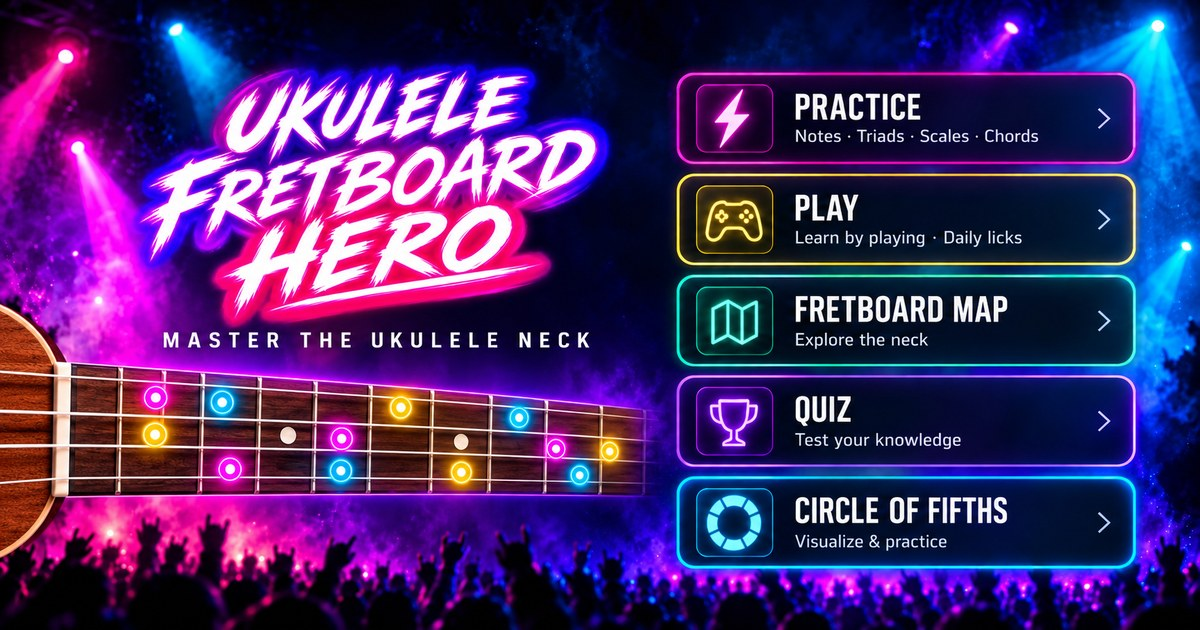
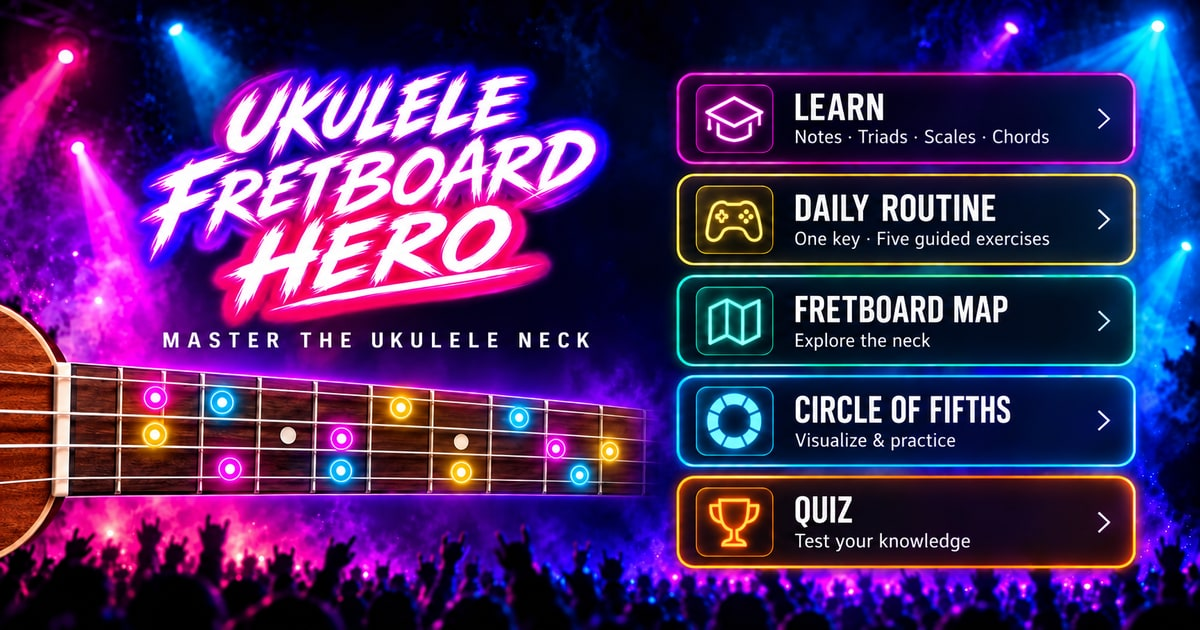
feat: refresh instrument OG artwork with current home menus

diff --git a/web/index.html b/web/index.html
@@ -22,15 +22,15 @@
   <meta property="og:site_name" content="Fretboard Hero">
   <meta property="og:locale" content="en_US">
   <meta property="og:url" content="https://fretboard-hero.com/">
-  <meta property="og:image" content="https://fretboard-hero.com/assets/instruments/guitar/og.jpg">
+  <meta property="og:image" content="https://fretboard-hero.com/assets/instruments/guitar/og.jpg?v=10.24.2">
   <meta property="og:image:type" content="image/jpeg">
   <meta property="og:image:width" content="1200">
   <meta property="og:image:height" content="630">
-  <meta property="og:image:alt" content="Fretboard Hero — neon fretboard trainer with Learn, Play, Fretboard Map, Quiz and Circle of Fifths">
+  <meta property="og:image:alt" content="Fretboard Hero — neon fretboard trainer with Learn, Daily Routine, Fretboard Map, Circle of Fifths and Quiz">
   <meta name="twitter:card" content="summary_large_image">
   <meta name="twitter:title" content="Fretboard Hero — Master the Neck">
   <meta name="twitter:description" content="Interactive fretboard training, note map and quiz. Free. No account. Just play.">
-  <meta name="twitter:image" content="https://fretboard-hero.com/assets/instruments/guitar/og.jpg">
+  <meta name="twitter:image" content="https://fretboard-hero.com/assets/instruments/guitar/og.jpg?v=10.24.2">
   <link rel="icon" sizes="16x16 32x32 48x48" href="./assets/instruments/guitar/favicon.ico">
   <link rel="shortcut icon" href="./assets/instruments/guitar/favicon.ico">
   <link rel="icon" type="image/png" sizes="16x16" href="./assets/instruments/guitar/favicon-16.png">
@@ -42,10 +42,10 @@
   <link rel="apple-touch-icon" sizes="152x152" href="./assets/instruments/guitar/apple-touch-icon-152.png">
   <link rel="apple-touch-icon" sizes="167x167" href="./assets/instruments/guitar/apple-touch-icon-167.png">
   <link rel="apple-touch-icon" sizes="180x180" href="./assets/instruments/guitar/apple-touch-icon-180.png">
-  <link rel="stylesheet" href="./styles.css?v=10.24.1">
+  <link rel="stylesheet" href="./styles.css?v=10.24.2">
   <link rel="stylesheet" href="./home.css?v=10.21.1">
-  <link rel="stylesheet" href="./theme.css?v=10.24.1">
-  <link rel="stylesheet" href="./routine.css?v=10.24.1">
+  <link rel="stylesheet" href="./theme.css?v=10.24.2">
+  <link rel="stylesheet" href="./routine.css?v=10.24.2">
   <link rel="stylesheet" href="./premium.css?v=10.21.1">
   <script id="productStructuredData" type="application/ld+json">{"@context":"https://schema.org","@type":["VideoGame","WebApplication"],"name":"Fretboard Hero","description":"Interactive fretboard trainer."}</script>
 </head>
@@ -71,7 +71,7 @@
             <button class="hero-btn routine-card" data-go="routine"><span class="hero-icon"><img src="./assets/home/play.svg" alt="" width="64" height="64"></span><span class="home-card-copy"><strong>DAILY ROUTINE</strong><small>One key · Five guided exercises</small></span><span class="home-chevron" aria-hidden="true">›</span></button>
             <button class="hero-btn map-card" data-go="fretmap"><span class="hero-icon"><img src="./assets/home/map.svg" alt="" width="64" height="64"></span><span class="home-card-copy"><strong>FRETBOARD MAP</strong><small>Explore the neck</small></span><span class="home-chevron" aria-hidden="true">›</span></button>
             <button class="hero-btn circle-card" data-go="circle"><span class="hero-icon"><img src="./assets/home/circle.svg" alt="" width="64" height="64"></span><span class="home-card-copy"><strong>CIRCLE OF FIFTHS</strong><small>Visualize & practice</small></span><span class="home-chevron" aria-hidden="true">›</span></button>
-            <button class="hero-btn quiz-card" data-go="quiz"><span class="hero-icon"><img src="./assets/home/quiz.svg?v=10.24.1" alt="" width="64" height="64"></span><span class="home-card-copy"><strong>QUIZ</strong><small>Test your knowledge</small></span><span class="home-chevron" aria-hidden="true">›</span></button>
+            <button class="hero-btn quiz-card" data-go="quiz"><span class="hero-icon"><img src="./assets/home/quiz.svg?v=10.24.2" alt="" width="64" height="64"></span><span class="home-card-copy"><strong>QUIZ</strong><small>Test your knowledge</small></span><span class="home-chevron" aria-hidden="true">›</span></button>
           </nav>
           <nav class="home-instruments" aria-label="Choose instrument">
             <button type="button" data-home-instrument="guitar" aria-pressed="false"><svg class="instrument-art" viewBox="71.5 11.3333 190 253.3333" aria-hidden="true" preserveAspectRatio="xMidYMid meet"><image href="./assets/home/instruments.webp?v=10.14.0" width="768" height="256"/></svg><span>Guitar</span></button>
@@ -110,7 +110,7 @@
           <div id="routineTabScroll" class="routine-tab-scroll"><svg id="routineTab" role="img"></svg></div>
           <p id="routineLegend" class="routine-legend">Read left to right · <span>Cyan = root note</span> · Play at your own pace</p>
         </article>
-        <div class="routine-actions"><button id="routineNext" class="ui-primary" type="button">Next →</button><div id="routineFinish" class="routine-finish" hidden><button class="learn-card" type="button" data-go="learn"><img src="./assets/home/learn.svg" alt="" width="28" height="28">Learn</button><button class="quiz-card" type="button" data-go="quiz"><img src="./assets/home/quiz.svg?v=10.24.1" alt="" width="28" height="28">Quiz</button></div></div>
+        <div class="routine-actions"><button id="routineNext" class="ui-primary" type="button">Next →</button><div id="routineFinish" class="routine-finish" hidden><button class="learn-card" type="button" data-go="learn"><img src="./assets/home/learn.svg" alt="" width="28" height="28">Learn</button><button class="quiz-card" type="button" data-go="quiz"><img src="./assets/home/quiz.svg?v=10.24.2" alt="" width="28" height="28">Quiz</button></div></div>
       </div>
     </section>
 
@@ -241,7 +241,7 @@
     </div>
   </div>
 
-  <script src="./bootstrap.js?v=10.24.1" defer></script>
+  <script src="./bootstrap.js?v=10.24.2" defer></script>
   <script>if('serviceWorker' in navigator){window.addEventListener('load',()=>navigator.serviceWorker.register('./sw.js').catch(()=>{}));}</script>
 
 </body>

diff --git a/web/bootstrap.js b/web/bootstrap.js
@@ -8,19 +8,19 @@
     artwork.setAttribute('href','./assets/home/product-wordmarks.webp');
   });
   const CATALOG={
-    'guitar':{instrumentKey:'guitar',instrument:'./instruments/guitar.js?v=10.24.1',productKey:'guitar',product:'./products/guitar-fretboard-hero.js?v=10.24.1'},
-    'bass-4':{instrumentKey:'bass4',instrument:'./instruments/bass-4.js?v=10.24.1',productKey:'bass',product:'./products/bass-fretboard-hero.js?v=10.24.1'},
-    'ukulele':{instrumentKey:'ukulele',instrument:'./instruments/ukulele.js?v=10.24.1',productKey:'ukulele',product:'./products/ukulele-fretboard-hero.js?v=10.24.1'},
+    'guitar':{instrumentKey:'guitar',instrument:'./instruments/guitar.js?v=10.24.2',productKey:'guitar',product:'./products/guitar-fretboard-hero.js?v=10.24.2'},
+    'bass-4':{instrumentKey:'bass4',instrument:'./instruments/bass-4.js?v=10.24.2',productKey:'bass',product:'./products/bass-fretboard-hero.js?v=10.24.2'},
+    'ukulele':{instrumentKey:'ukulele',instrument:'./instruments/ukulele.js?v=10.24.2',productKey:'ukulele',product:'./products/ukulele-fretboard-hero.js?v=10.24.2'},
   };
-  const CORE=['music-theory','circle-of-fifths','circle-renderer','routine-exercises','routine-renderer','routine-session','tuning','fretboard-engine','fretboard-layout','fretboard-appearance','fretboard-map','pentatonic-renderer','triad-engine','arpeggio-engine','chord-engine','quiz-engine','controls','mode-registry','product-shell'].map(n=>`./core/${n}.js?v=10.24.1`);
-  const MODES=['pentatonic','triads','chords','arpeggios'].map(n=>`./modes/${n}.js?v=10.24.1`);
+  const CORE=['music-theory','circle-of-fifths','circle-renderer','routine-exercises','routine-renderer','routine-session','tuning','fretboard-engine','fretboard-layout','fretboard-appearance','fretboard-map','pentatonic-renderer','triad-engine','arpeggio-engine','chord-engine','quiz-engine','controls','mode-registry','product-shell'].map(n=>`./core/${n}.js?v=10.24.2`);
+  const MODES=['pentatonic','triads','chords','arpeggios'].map(n=>`./modes/${n}.js?v=10.24.2`);
   const load=src=>new Promise((resolve,reject)=>{const s=document.createElement('script');s.async=false;s.src=src;s.onload=resolve;s.onerror=()=>reject(new Error(`Unable to load ${src}`));document.head.appendChild(s);});
   const fail=err=>{document.body.setAttribute('aria-busy','false');console.error(err);document.body.innerHTML=`<main style="min-height:100vh;display:grid;place-items:center;background:#05080b;color:#f8fbff;font-family:system-ui;padding:24px"><div><h1 style="color:#ff3ec9">CONFIGURATION ERROR</h1><p>${String(err.message||err)}</p><p>Check <code>site.config.json</code> and README.md.</p></div></main>`;};
   (async()=>{
     try{
       const response=await fetch('./site.config.json',{cache:'no-store'});if(!response.ok)throw new Error(`site.config.json returned HTTP ${response.status}`);
       const config=await response.json();
-      await load('./core/access.js?v=10.24.1');
+      await load('./core/access.js?v=10.24.2');
       window.FRETBOARD_ACCESS=FretboardAccess.create(await FretboardAccess.resolve(config,location.search));
       const defaultInstrument=config.instrument;
       if(!CATALOG[defaultInstrument])throw new Error(`Unknown instrument "${defaultInstrument}". Supported: ${Object.keys(CATALOG).join(', ')}`);
@@ -41,9 +41,9 @@
       window.FRETBOARD_ACTIVE_PRODUCT={...product,instrument:entry.instrumentKey};window.FRETBOARD_ACTIVE_INSTRUMENT=instrument;
       document.documentElement.dataset.instrument=config.instrument;
       window.ProductShell.apply(product,instrument);
-      await load('./home.js?v=10.24.1');
+      await load('./home.js?v=10.24.2');
       await document.fonts.load('800 26px "Hero Condensed"').catch(()=>[]);
-      await load('./app.js?v=10.24.1');
+      await load('./app.js?v=10.24.2');
       if(!await artworkReady){
         logo.setAttribute('hidden','');
         const fallback=document.createElement('span');

diff --git a/web/products/guitar-fretboard-hero.js b/web/products/guitar-fretboard-hero.js
@@ -10,14 +10,14 @@ window.FRETBOARD_PRODUCTS.guitar={
     canonical:'https://fretboard-hero.com/',
     ogTitle:'Guitar Fretboard Hero — Learn the Guitar Fretboard',
     ogDescription:'Learn every note, visualize pentatonic positions, triads and CAGED chords, then test your fretboard knowledge in a 60-second quiz.',
-    ogImageAlt:'Guitar Fretboard Hero interactive guitar fretboard with Learn, Play, Fretboard Map, Quiz and Circle of Fifths',
+    ogImageAlt:'Guitar Fretboard Hero interactive guitar fretboard with Learn, Daily Routine, Fretboard Map, Circle of Fifths and Quiz',
     twitterTitle:'Guitar Fretboard Hero — Learn the Guitar Fretboard',
     twitterDescription:'Interactive guitar fretboard notes, pentatonic positions, triads, CAGED chords and a fast fretboard quiz. Free and no account required.',
     structuredDescription:'Free interactive guitar fretboard learning tool with note mapping, major and minor pentatonic positions, triads, CAGED chord shapes and a timed fretboard quiz.',
     featureList:['Interactive guitar fretboard note map','Major and minor pentatonic positions','Triad visualization','CAGED chord shapes','Circle of Fifths and key harmony','60-second fretboard quiz','Mobile and tablet friendly']
   },
   pwa:{manifest:'manifests/guitar.webmanifest',name:'Guitar Fretboard Hero',shortName:'Fretboard Hero',description:'Free interactive guitar fretboard trainer for pentatonic scales, triads, chords, note mapping and quizzes.'},
-  assets:{heroLogoViewport:'0 0 900 550',ogImage:'assets/instruments/guitar/og.jpg'},
+  assets:{heroLogoViewport:'0 0 900 550',ogImage:'assets/instruments/guitar/og.jpg?v=10.24.2'},
   quiz:{durationMs:60000,basePoints:100,scoreTable:[100,250,500,800,1200],maxMultiplier:5,maxFret:15,targets:['root','third','fifth']},
   ranks:[
     [10000,'🏆','VIRTUOSO','Total fretboard control at speed.'],[9000,'🎸','GUITAR LEGEND','The neck has nowhere left to hide.'],[8000,'🧙','NECK MASTER','Instant command across the fretboard.'],[7000,'✨','FRET WIZARD','Notes appear before you need to search.'],[6000,'👑','GUITAR HERO','Fast, confident fretboard mastery.'],[5300,'⭐','ROCKSTAR','Fast, accurate and stage-ready.'],[4700,'⚡','SHREDDER','The neck is starting to fear you.'],[4200,'🎛','TONE MASTER','Control, speed and musical awareness.'],[3800,'🌀','STRING BENDER','Strong instincts across the strings.'],[3450,'🔥','FRET MASTER','The fretboard map is locking in.'],[3150,'💀','SOLO MASTER','Strong fretboard instincts.'],[2900,'🤘','RIFF LORD','You command the riffs.'],[2650,'🎤','HEADLINER','Ready for the big stage.'],[2450,'🎪','STAGE PLAYER','Comfortable under pressure.'],[2250,'🎵','LEAD GUITARIST','Solid lead-player territory.'],[2000,'🪓','AXE SLINGER','You know how to handle that axe.'],[1800,'🏄','RHYTHM RIDER','The neck is becoming familiar.'],[1600,'🎸','GIG PLAYER','Good enough to survive the set.'],[1400,'🎶','JAMMER','You can find your way through a jam.'],[1200,'🎼','PLAYER','A solid base is taking shape.'],[1000,'🎧','PRACTICER','The repetitions are paying off.'],[850,'🌱','ROOKIE','The journey has officially begun.'],[700,'🎸','BEGINNER','You found the guitar. Now find the notes.'],[550,'🎵','CHORD CHASER','Always one fret behind the chord.'],[400,'🧭','FRET EXPLORER','Boldly exploring unknown frets.'],[300,'🧠','NOTE HUNTER','The notes are hiding. Keep hunting.'],[200,'🗺','NECK TOURIST','Nice neck. First time here?'],[100,'🙈','FRET GUESSER','Confidence: high. Accuracy: adventurous.'],[50,'😬','NEEDS A TUNER','The guitar might be fine. We should still check.'],[0,'💀','AIR GUITARIST','At least air guitar has no wrong frets.']

diff --git a/web/products/ukulele-fretboard-hero.js b/web/products/ukulele-fretboard-hero.js
@@ -10,13 +10,13 @@ window.FRETBOARD_PRODUCTS.ukulele={
     canonical:'https://fretboard-hero.com/?instrument=ukulele',
     ogTitle:'Ukulele Fretboard Hero — Learn the Ukulele Fretboard',
     ogDescription:'Learn every ukulele note, explore pentatonic positions, triads, chords and arpeggios in G–C–E–A tuning, then test yourself in the quiz.',
-    ogImageAlt:'Ukulele Fretboard Hero interactive G C E A ukulele fretboard with Learn, Play, Fretboard Map, Quiz and Circle of Fifths',
+    ogImageAlt:'Ukulele Fretboard Hero interactive G C E A ukulele fretboard with Learn, Daily Routine, Fretboard Map, Circle of Fifths and Quiz',
     twitterTitle:'Ukulele Fretboard Hero — Learn the Ukulele Fretboard',
     twitterDescription:'Interactive G–C–E–A ukulele fretboard notes, scales, triads, chords, arpeggios and a fast quiz.',
     structuredDescription:'Free interactive ukulele fretboard learning tool for standard reentrant high-G G–C–E–A tuning with note mapping, pentatonic positions, triads, chords, arpeggios and quizzes.',
     featureList:['G–C–E–A ukulele fretboard note map','Reentrant high-G tuning','Pentatonic positions','Ukulele triads and chords','Ukulele arpeggios','Circle of Fifths and key harmony','60-second fretboard quiz']
   },
   pwa:{manifest:'manifests/ukulele.webmanifest',name:'Ukulele Fretboard Hero',shortName:'Ukulele Hero',description:'Interactive ukulele fretboard trainer for scales, triads, chords, arpeggios, note mapping and quizzes.'},
-  assets:{heroLogoViewport:'1800 0 900 550',ogImage:'assets/instruments/ukulele/og.jpg'},
+  assets:{heroLogoViewport:'1800 0 900 550',ogImage:'assets/instruments/ukulele/og.jpg?v=10.24.2'},
   quiz:{durationMs:60000,basePoints:100,scoreTable:[100,250,500,800,1200],maxMultiplier:5,maxFret:15,targets:['root','third','fifth']},ranks:[[10000,'🏆','UKULELE VIRTUOSO',''],[9000,'🎸','UKULELE LEGEND',''],[8000,'🧙','NECK MASTER',''],[7000,'✨','FRET WIZARD',''],[6000,'👑','UKULELE HERO',''],[5300,'⭐','ISLAND ROCKSTAR',''],[4700,'⚡','FAST STRUMMER',''],[4200,'🎛','TONE MASTER',''],[3800,'🌀','STRING BENDER',''],[3450,'🔥','FRET MASTER',''],[3150,'💀','SOLO MASTER',''],[2900,'🤘','RIFF LORD',''],[2650,'🎤','HEADLINER',''],[2450,'🎪','STAGE PLAYER',''],[2250,'🎵','LEAD PLAYER',''],[2000,'🪓','UKE SLINGER',''],[1800,'🏄','RHYTHM RIDER',''],[1600,'🎸','GIG PLAYER',''],[1400,'🎶','JAMMER',''],[1200,'🎼','UKULELE PLAYER',''],[1000,'🎧','PRACTICER',''],[850,'🌱','ROOKIE',''],[700,'🎸','BEGINNER',''],[550,'🎵','CHORD CHASER',''],[400,'🧭','FRET EXPLORER',''],[300,'🧠','NOTE HUNTER',''],[200,'🗺','NECK TOURIST',''],[100,'🙈','FRET GUESSER',''],[50,'😬','NEEDS A TUNER',''],[0,'💀','AIR UKULELE','']]
 };

diff --git a/web/products/bass-fretboard-hero.js b/web/products/bass-fretboard-hero.js
@@ -10,13 +10,13 @@ window.FRETBOARD_PRODUCTS.bass={
     canonical:'https://fretboard-hero.com/?instrument=bass-4',
     ogTitle:'Bass Fretboard Hero — Learn the Bass Fretboard',
     ogDescription:'Learn every bass note, visualize pentatonic positions, triads and arpeggios, then test your fretboard knowledge in a 60-second quiz.',
-    ogImageAlt:'Bass Fretboard Hero interactive 4-string bass fretboard with Learn, Play, Fretboard Map, Quiz and Circle of Fifths',
+    ogImageAlt:'Bass Fretboard Hero interactive 4-string bass fretboard with Learn, Daily Routine, Fretboard Map, Circle of Fifths and Quiz',
     twitterTitle:'Bass Fretboard Hero — Learn the Bass Fretboard',
     twitterDescription:'Interactive bass fretboard notes, pentatonic positions, triads, arpeggios and a fast quiz for standard 4-string bass.',
     structuredDescription:'Free interactive 4-string bass fretboard learning tool for standard E–A–D–G tuning with note mapping, pentatonic positions, triads, arpeggios and a timed quiz.',
     featureList:['4-string bass fretboard note map','Standard E–A–D–G tuning','Major and minor pentatonic positions','Bass triads','Bass arpeggios','Circle of Fifths and key harmony','60-second fretboard quiz']
   },
   pwa:{manifest:'manifests/bass.webmanifest',name:'Bass Fretboard Hero',shortName:'Bass Hero',description:'Interactive bass fretboard trainer for pentatonics, triads, arpeggios, note mapping and quizzes.'},
-  assets:{heroLogoViewport:'900 0 900 550',ogImage:'assets/instruments/bass/og.jpg'},
+  assets:{heroLogoViewport:'900 0 900 550',ogImage:'assets/instruments/bass/og.jpg?v=10.24.2'},
   quiz:{durationMs:60000,basePoints:100,scoreTable:[100,250,500,800,1200],maxMultiplier:5,maxFret:15,targets:['root','third','fifth']},ranks:[[10000,'🏆','BASS VIRTUOSO',''],[9000,'🎸','BASS LEGEND',''],[8000,'🧙','NECK MASTER',''],[7000,'✨','FRET WIZARD',''],[6000,'👑','BASS HERO',''],[5300,'⭐','GROOVE MASTER',''],[4700,'⚡','LOW-END SHREDDER',''],[4200,'🎛','TONE MASTER',''],[3800,'🌀','STRING BENDER',''],[3450,'🔥','FRET MASTER',''],[3150,'💀','BASS SOLO MASTER',''],[2900,'🤘','RIFF LORD',''],[2650,'🎤','HEADLINER',''],[2450,'🎪','STAGE PLAYER',''],[2250,'🎵','LEAD BASSIST',''],[2000,'🪓','LOW-END SLINGER',''],[1800,'🏄','GROOVE RIDER',''],[1600,'🎸','GIG PLAYER',''],[1400,'🎶','JAMMER',''],[1200,'🎼','BASS PLAYER',''],[1000,'🎧','PRACTICER',''],[850,'🌱','ROOKIE',''],[700,'🎸','BEGINNER',''],[550,'🎵','GROOVE CHASER',''],[400,'🧭','FRET EXPLORER',''],[300,'🧠','NOTE HUNTER',''],[200,'🗺','NECK TOURIST',''],[100,'🙈','FRET GUESSER',''],[50,'😬','NEEDS A TUNER',''],[0,'💀','AIR BASSIST','']]
 };

diff --git a/worker.js b/worker.js
@@ -13,8 +13,8 @@ export default {
     const instrument = Object.hasOwn(products, requested) ? products[requested] : products.guitar;
     const canonical = `https://fretboard-hero.com/${instrument.key === 'guitar' ? '' : `?instrument=${instrument.key === 'bass' ? 'bass-4' : instrument.key}`}`;
     const title = `${instrument.name} Fretboard Hero — Master the Neck`;
-    const description = `Learn the ${instrument.name.toLowerCase()} fretboard with Learn, Daily Routine, Fretboard Map, Quiz and Circle of Fifths.`;
-    const image = `https://fretboard-hero.com/assets/instruments/${instrument.key}/og.jpg`;
+    const description = `Learn the ${instrument.name.toLowerCase()} fretboard with Learn, Daily Routine, Fretboard Map, Circle of Fifths and Quiz.`;
+    const image = `https://fretboard-hero.com/assets/instruments/${instrument.key}/og.jpg?v=10.24.2`;
     const attr = (name, value) => ({ element(el) { el.setAttribute(name, value); } });
     return new HTMLRewriter()
       .on('title', { element(el) { el.setInnerContent(title); } })

diff --git a/web/core/product-shell.js b/web/core/product-shell.js
@@ -27,7 +27,7 @@
     const home=product.home||{};
     const name=branding.name||product.name||'Fretboard Hero';
     const url=seo.canonical||product.url||location.href;
-    const ogImage=new URL(assets.ogImage||'assets/instruments/guitar/og.jpg','https://fretboard-hero.com/').href;
+    const ogImage=new URL(assets.ogImage||'assets/instruments/guitar/og.jpg?v=10.24.2','https://fretboard-hero.com/').href;
 
     document.title=seo.title||name;
     setMeta('meta[name="application-name"]',name);
